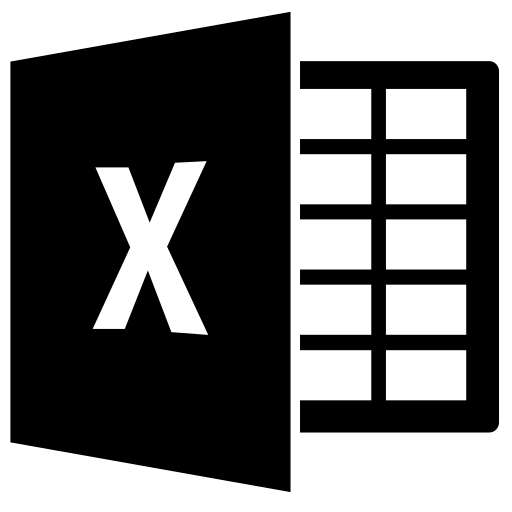
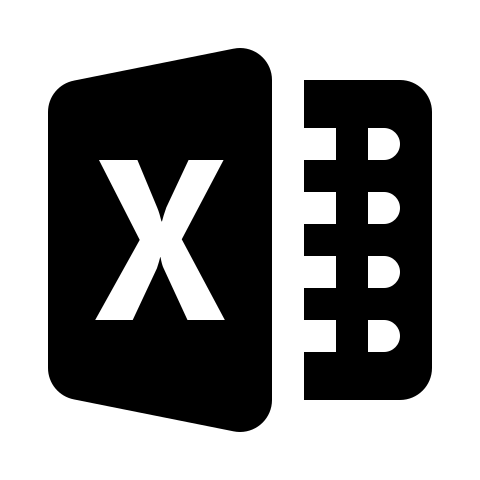
Adding scroll animations

diff --git a/index.html b/index.html
@@ -7,6 +7,8 @@
     </title>
     <link rel="stylesheet" href="src/css/style.css">
     <link rel="stylesheet" href="src/css/navbar.css">
+    <link rel="stylesheet" href="src/css/animations.css">
+    <link href='https://unpkg.com/boxicons@2.1.4/css/boxicons.min.css' rel='stylesheet'>
     <link rel="preconnect" href="https://fonts.googleapis.com">
     <link rel="preconnect" href="https://fonts.gstatic.com" crossorigin>
     <link href="https://fonts.googleapis.com/css2?family=Montserrat:wght@400;700;900&display=swap" rel="stylesheet">
@@ -45,52 +47,55 @@
 <main>
 <section id="background">
     <div class="intro-image">
-        <img src="images/intro-pic.jpg" alt="intro-pic">
+        <img src="images/intro-pic.jpg" alt="intro-pic" class="animation-hidden-appear" style="--order:3;">
     </div>
     <div class="intro">
-        <h1>darren yan</h1>
-        <p>Hi there! I'm <b>Darren</b>, a penultimate year undergraduate from National University of Singapore studying <b>Data Science and Economics.</b></p>
+        <h1 class="animation-hidden-appear" style="--order:1;">darren yan</h1>
+        <p class="animation-hidden-appear" style="--order:2;">Hi there! I'm <b>Darren</b>, a penultimate year undergraduate from National University of Singapore studying <b>Data Science and Economics.</b></p>
     </div>
 </section>
 
 <section id="skills">
-    <h1>Skills</h1>
+    <h1 class="animation-hidden-left">Skills</h1>
     <div class="skill-languages">
-        <h2>Languages</h2>
-        <div class="tooltip"><ion-icon name="logo-python"></ion-icon><span class="tooltiptext">Python</span></div>
-        <div class="tooltip"><img src="images/icon-r.png"><span class="tooltiptext">R</span></div>
-        <div class="tooltip"><img src="images/icon-java.png"><span class="tooltiptext">Java</span></div>
-        <div class="tooltip"><ion-icon name="logo-html5"></ion-icon><span class="tooltiptext">HTML</span></div>
-        <div class="tooltip"><ion-icon name="logo-css3"></ion-icon><span class="tooltiptext">CSS</span></div>
-        <div class="tooltip"><ion-icon name="logo-javascript"></ion-icon><span class="tooltiptext">Javascript</span></div>
+        <h2 class="animation-hidden-left">Languages</h2>
+        <div class="tooltip animation-hidden-left" style="--order:1;"><ion-icon name="logo-python"></ion-icon><span class="tooltiptext">Python</span></div>
+        <div class="tooltip animation-hidden-left" style="--order:2;"><img src="images/icon-r.png"><span class="tooltiptext">R</span></div>
+        <div class="tooltip animation-hidden-left" style="--order:3;"><img src="images/icon-java.png"><span class="tooltiptext">Java</span></div>
+        <div class="tooltip animation-hidden-left" style="--order:4;"><i class='bx bxs-data'></i><span class="tooltiptext">SQL</span></div>
+        <div class="tooltip animation-hidden-left" style="--order:5;"><i class='bx bxl-git' ></i><span class="tooltiptext">Git</span></div>
+        <div class="tooltip animation-hidden-left" style="--order:6;"><ion-icon name="logo-html5"></ion-icon><span class="tooltiptext">HTML</span></div>
+        <div class="tooltip animation-hidden-left" style="--order:7;"><ion-icon name="logo-css3"></ion-icon><span class="tooltiptext">CSS</span></div>
+        <div class="tooltip animation-hidden-left" style="--order:8;"><ion-icon name="logo-javascript"></ion-icon><span class="tooltiptext">Javascript</span></div>
     </div>
     <div class="skill-others">
-        <h2>Others</h2>
-        <div class="tooltip"><ion-icon name="logo-tableau"></ion-icon><span class="tooltiptext">Tableau</span></div>
-        <div class="tooltip"><img src="images/icon-powerbi.png"><span class="tooltiptext">Power BI</span></div>
-        <div class="tooltip"><ion-icon name="logo-google"></ion-icon><span class="tooltiptext">Google Suite</span></div>
+        <h2 class="animation-hidden-left">Others</h2>
+        <div class="tooltip animation-hidden-left" style="--order:1;"><ion-icon name="logo-tableau"></ion-icon><span class="tooltiptext">Tableau</span></div>
+        <div class="tooltip animation-hidden-left" style="--order:2;"><img src="images/icon-powerbi.png"><span class="tooltiptext">Power BI</span></div>
+        <div class="tooltip animation-hidden-left" style="--order:3;"><ion-icon name="logo-google"></ion-icon><span class="tooltiptext">Google Suite</span></div>
+        <div class="tooltip animation-hidden-left" style="--order:4;"><img src="images/icon-excel.png"><span class="tooltiptext">Excel</span></div>
     </div>
 </section>
 
 <section id="contacts">
     <div class="links">
-        <h1>Contacts</h1>
+        <h1 class="animation-hidden-left">Contacts</h1>
         <div class="logos">
             <div class="contact-information">
-                <ion-icon name="logo-github"></ion-icon><span class="logo-label" id="github-label">github.com/darrenyankj</span>
-                <br><ion-icon name="logo-linkedin"></ion-icon><span class="logo-label" id="linkedin-label">linkedin.com/in/darren-yan-kj</span>
-                <br><ion-icon name="mail"></ion-icon><span class="logo-label" id="email-label">darrenyankj@gmail.com</span>
-                <br><ion-icon name="paper-plane"></ion-icon><span class="logo-label" id="telegram-label">@darrenyankayjay</span>
+                <ion-icon name="logo-github"></ion-icon><span class="logo-label animation-hidden-left" id="github-label">github.com/darrenyankj</span>
+                <br><ion-icon name="logo-linkedin"></ion-icon><span class="logo-label animation-hidden-left" id="linkedin-label">linkedin.com/in/darren-yan-kj</span>
+                <br><ion-icon name="mail"></ion-icon><span class="logo-label animation-hidden-left" id="email-label">darrenyankj@gmail.com</span>
+                <br><ion-icon name="paper-plane"></ion-icon><span class="logo-label animation-hidden-left" id="telegram-label">@darrenyankayjay</span>
             </div>
             <div class="contact-links">
-                <div class="tooltip"><button class="copyButton" onclick="copyFunc('github-label');" onmouseleave="revert('github-label');"><ion-icon name="clipboard-outline"></ion-icon></button><span class="tooltiptext" id="github-label-tooltip">Copy</span></div>
-                <div class="tooltip"><a href="https://github.com/darrenyankj" target="_blank" rel="noopener noreferrer"><ion-icon name="link-outline"></ion-icon></a><span class="tooltiptext">Link</span></div>
-                <br><div class="tooltip"><button class="copyButton" onclick="copyFunc('linkedin-label');" onmouseleave="revert('linkedin-label');"><ion-icon name="clipboard-outline"></ion-icon></button><span class="tooltiptext" id="linkedin-label-tooltip">Copy</span></div>
-                <div class="tooltip"><a href="https://linkedin.com/in/darren-yan-kj" target="_blank" rel="noopener noreferrer"><ion-icon name="link-outline"></ion-icon></a><span class="tooltiptext">Link</span></div>
-                <br><div class="tooltip"><button class="copyButton" onclick="copyFunc('email-label');" onmouseleave="revert('email-label');"><ion-icon name="clipboard-outline"></ion-icon></button><span class="tooltiptext" id="email-label-tooltip">Copy</span></div>
-                <div class="tooltip"><a href="mailto:darrenyankj@gmail.com"><ion-icon name="link-outline"></ion-icon></a><span class="tooltiptext">Link</span></div>
-                <br><div class="tooltip"><button class="copyButton" onclick="copyFunc('telegram-label');" onmouseleave="revert('telegram-label');"><ion-icon name="clipboard-outline"></ion-icon></button><span class="tooltiptext" id="telegram-label-tooltip">Copy</span></div>
-                <div class="tooltip"><a href="https://t.me/darrenyankayjay" target="_blank" rel="noopener noreferrer"><ion-icon name="link-outline"></ion-icon></a><span class="tooltiptext">Link</span></div>
+                <div class="tooltip animation-hidden-right" style="--order:2;"><button class="copyButton" onclick="copyFunc('github-label');" onmouseleave="revert('github-label');"><ion-icon name="clipboard-outline"></ion-icon></button><span class="tooltiptext" id="github-label-tooltip">Copy</span></div>
+                <div class="tooltip animation-hidden-right" style="--order:1;"><a href="https://github.com/darrenyankj" target="_blank" rel="noopener noreferrer"><ion-icon name="link-outline"></ion-icon></a><span class="tooltiptext">Link</span></div>
+                <br><div class="tooltip animation-hidden-right" style="--order:2;"><button class="copyButton" onclick="copyFunc('linkedin-label');" onmouseleave="revert('linkedin-label');"><ion-icon name="clipboard-outline"></ion-icon></button><span class="tooltiptext" id="linkedin-label-tooltip">Copy</span></div>
+                <div class="tooltip animation-hidden-right" style="--order:1;"><a href="https://linkedin.com/in/darren-yan-kj" target="_blank" rel="noopener noreferrer"><ion-icon name="link-outline"></ion-icon></a><span class="tooltiptext">Link</span></div>
+                <br><div class="tooltip animation-hidden-right" style="--order:2;"><button class="copyButton" onclick="copyFunc('email-label');" onmouseleave="revert('email-label');"><ion-icon name="clipboard-outline"></ion-icon></button><span class="tooltiptext" id="email-label-tooltip">Copy</span></div>
+                <div class="tooltip animation-hidden-right" style="--order:1;"><a href="mailto:darrenyankj@gmail.com"><ion-icon name="link-outline"></ion-icon></a><span class="tooltiptext">Link</span></div>
+                <br><div class="tooltip animation-hidden-right" style="--order:2;"><button class="copyButton" onclick="copyFunc('telegram-label');" onmouseleave="revert('telegram-label');"><ion-icon name="clipboard-outline"></ion-icon></button><span class="tooltiptext" id="telegram-label-tooltip">Copy</span></div>
+                <div class="tooltip animation-hidden-right" style="--order:1;"><a href="https://t.me/darrenyankayjay" target="_blank" rel="noopener noreferrer"><ion-icon name="link-outline"></ion-icon></a><span class="tooltiptext">Link</span></div>
             </div>
         </div>
     </div>
@@ -100,6 +105,7 @@
 <script type="module" src="https://unpkg.com/ionicons@7.1.0/dist/ionicons/ionicons.esm.js"></script>
 <script nomodule src="https://unpkg.com/ionicons@7.1.0/dist/ionicons/ionicons.js"></script>
 <script type="text/javascript" src="src/js/baseScript.js"></script>
+<script type="text/javascript" src="src/js/animations.js"></script>
 
 </body>
 

diff --git a/src/js/animations.js b/src/js/animations.js
@@ -1,0 +1,24 @@
+// Adding class in js so that elements are not hidden for js disabled platforms
+const hiddenElementsAll = ["left", "right", "appear"];
+for (const element of hiddenElementsAll) {
+    const hiddenElements = document.querySelectorAll(".animation-hidden-" + element);
+    hiddenElements.forEach((el) => el.classList.add("animation-hidden-" + element + "-js"));
+}
+
+
+const observer = new IntersectionObserver((entries) => {
+    entries.forEach((entry) => {
+        console.log(entry);
+        if (entry.isIntersecting) {
+            entry.target.classList.add("animation-show");
+        } else {
+            entry.target.classList.remove("animation-show");
+        }
+    });
+});
+
+// Looping through hidden elements for observer
+for (const element of hiddenElementsAll) {
+    const hiddenElements = document.querySelectorAll(".animation-hidden-" + element);
+    hiddenElements.forEach((el) => observer.observe(el));
+}

diff --git a/src/css/style.css b/src/css/style.css
@@ -68,8 +68,9 @@ body::-webkit-scrollbar-thumb{
     min-height: 100vh;
 }
 
-#skills ion-icon{
+#skills ion-icon, #skills i{
     font-size: 60px;
+    color: #000;
 }
 
 #skills h1{
@@ -104,7 +105,8 @@ body::-webkit-scrollbar-thumb{
     transition: transform .2s ease-in-out;
 }
 
-.tooltip:hover ion-icon, .tooltip:hover img, .copyButton:hover ion-icon, .contact-links a ion-icon:hover{
+.tooltip:hover ion-icon, .tooltip:hover i, .tooltip:hover img, 
+.copyButton:hover ion-icon, .contact-links a ion-icon:hover{
     filter: invert(77%) sepia(9%) saturate(7407%) hue-rotate(183deg) brightness(90%) contrast(76%);
 }
 
@@ -157,11 +159,11 @@ body::-webkit-scrollbar-thumb{
 }
 
 .contact-information{
-    flex: 50%;
+    flex: 70%;
 }
 
 .contact-links{
-    flex: 50%;
+    flex: 30%;
 }
 
 .contact-information ion-icon{

diff --git a/src/css/animations.css b/src/css/animations.css
@@ -1,0 +1,36 @@
+.animation-hidden-left-js{
+    opacity: 0;
+    filter: blur(5px);
+    transform: translateX(-100%);
+    transition: all .8s;
+}
+
+.animation-hidden-right-js{
+    opacity: 0;
+    filter: blur(5px);
+    transform: translateX(100%);
+    transition: all .8s;    
+}
+
+.animation-hidden-appear-js{
+    opacity: 0;
+    transition-delay: calc(1s * var(--order));
+    transition: all .8s;
+}
+
+.animation-show{
+    opacity: 1;
+    filter: blur(0);
+    transform: translateX(0);
+}
+
+@media(prefers-reduced-motion) {
+    .animation-hidden {
+        transition: all 1s;
+    }
+}
+
+.tooltip{
+    transition-delay: calc(150ms * var(--order));
+}
+

diff --git a/src/css/navbar.css b/src/css/navbar.css
@@ -1,5 +1,6 @@
 main{
     margin-left: 5rem;
+    background: var(--light-color);
 }
 
 .navbar{
